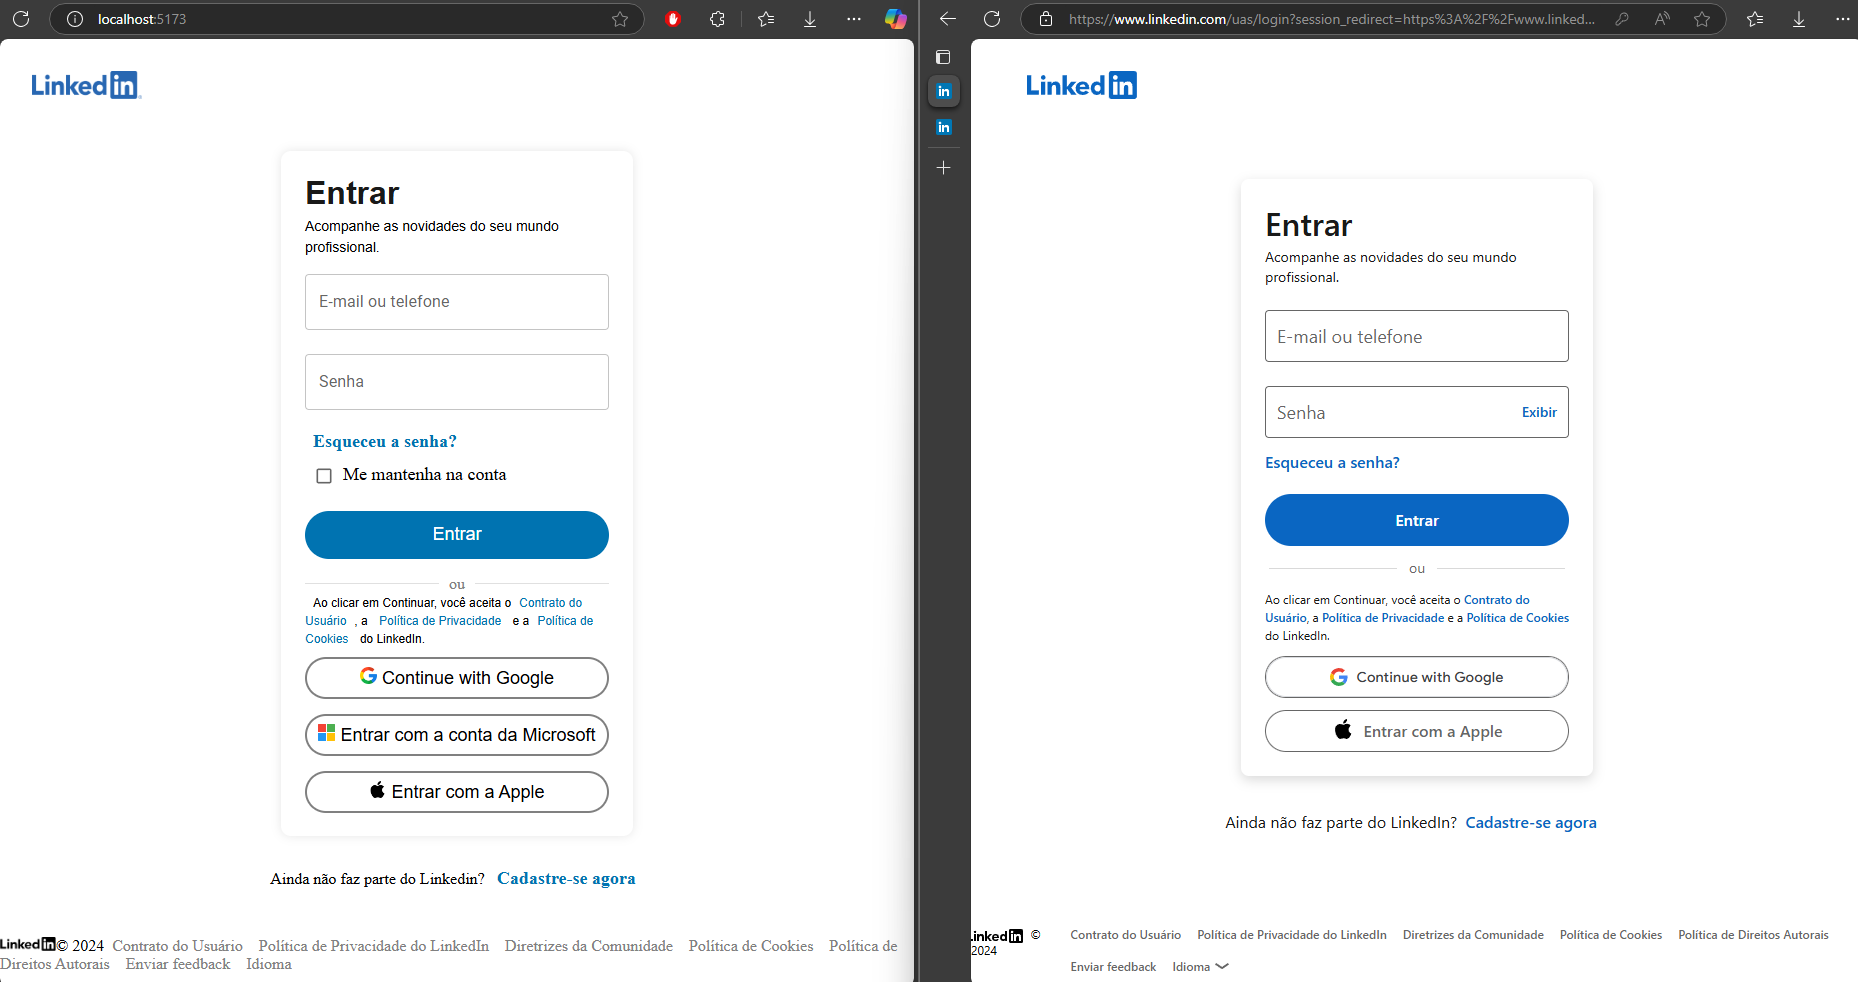
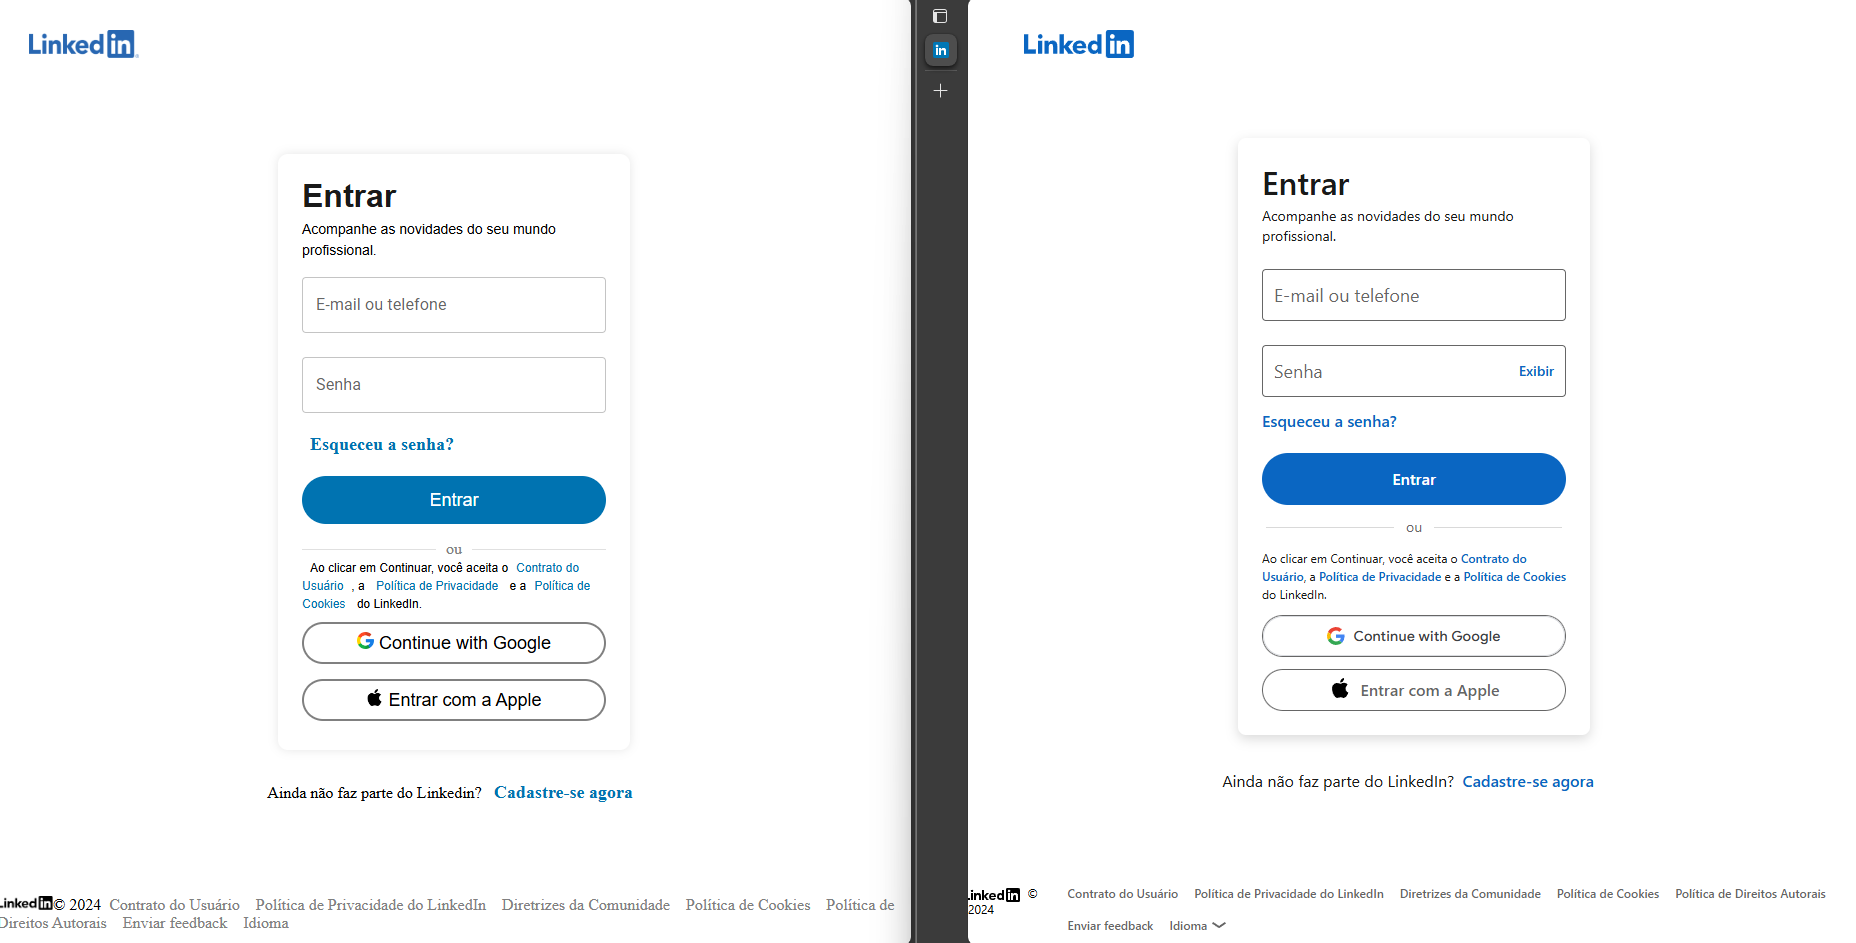
Pequenos ajustes

diff --git a/src/pages/login/index.jsx b/src/pages/login/index.jsx
@@ -51,7 +51,7 @@ function Login() {
                             />
                         </Box>
                         <A1 href="#"><strong>Esqueceu a senha?</strong></A1>
-                        <Span><Checkbox defaultChecked size="small"/>Me mantenha na conta</Span>
+                        {/*<Span><Checkbox defaultChecked size="small"/>Me mantenha na conta</Span>*/}
                         <Button>Entrar</Button>
                     </Form>
                     <div>
@@ -65,13 +65,13 @@ function Login() {
                         </Span2>
                         <div>
                             <Button2><LogoSocial src={google}/>  Continue with Google</Button2>
-                            <Button2><LogoSocial src={microsoft}/> Entrar com a conta da Microsoft</Button2>
+                            {/* <Button2><LogoSocial src={microsoft}/> Entrar com a conta da Microsoft</Button2> */}
                             <Button2><LogoSocial src={apple}/>  Entrar com a Apple</Button2>
                         </div>
                     </div>
                 </Card>
                 <Div2>
-                    <P3>Ainda não faz parte do Linkedin? <A1><strong>Cadastre-se agora</strong></A1></P3>
+                    <P3>Ainda não faz parte do Linkedin? <A1>Cadastre-se agora</A1></P3>
                 </Div2>
             </Main>
             <Footer>

diff --git a/src/pages/login/styled.jsx b/src/pages/login/styled.jsx
@@ -30,7 +30,6 @@ export const Card = styled.div`
     display: flex;
     flex-direction: column;
     width: 304px;
-    height: 637px;
     background-color: #fff;
     border-radius: 10px;
     margin: 0 118px;
@@ -82,6 +81,7 @@ export const Div2 = styled.div`
 export const P3 = styled.p`
     font-size: 16px;
     padding: 0 8px;
+    font-family: 'open sans', sans-serif;
 `
 export const A1 = styled.a`
     margin: 8px 0 0;
